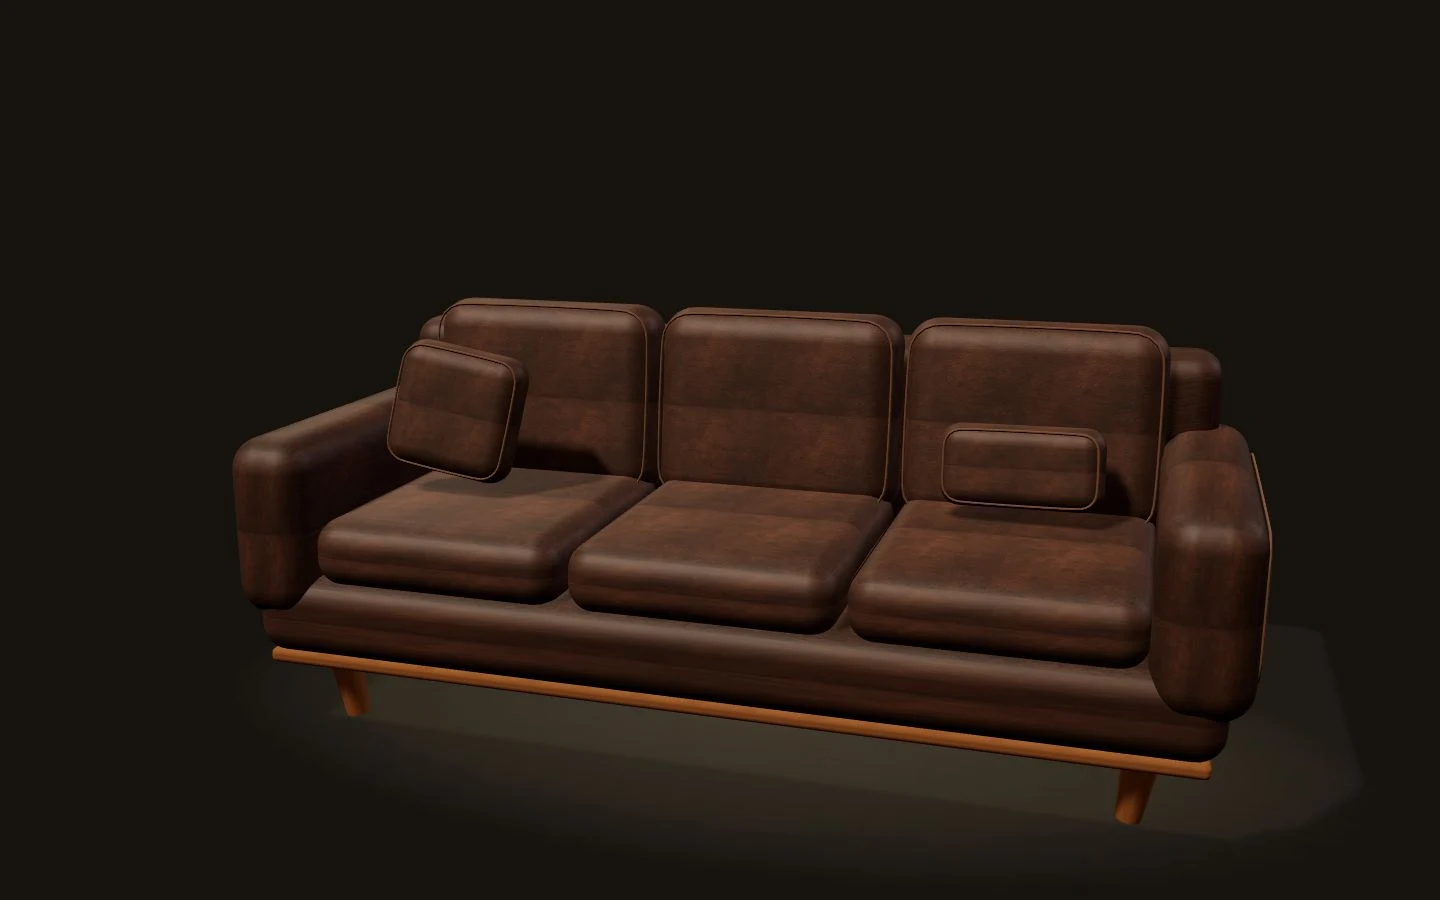
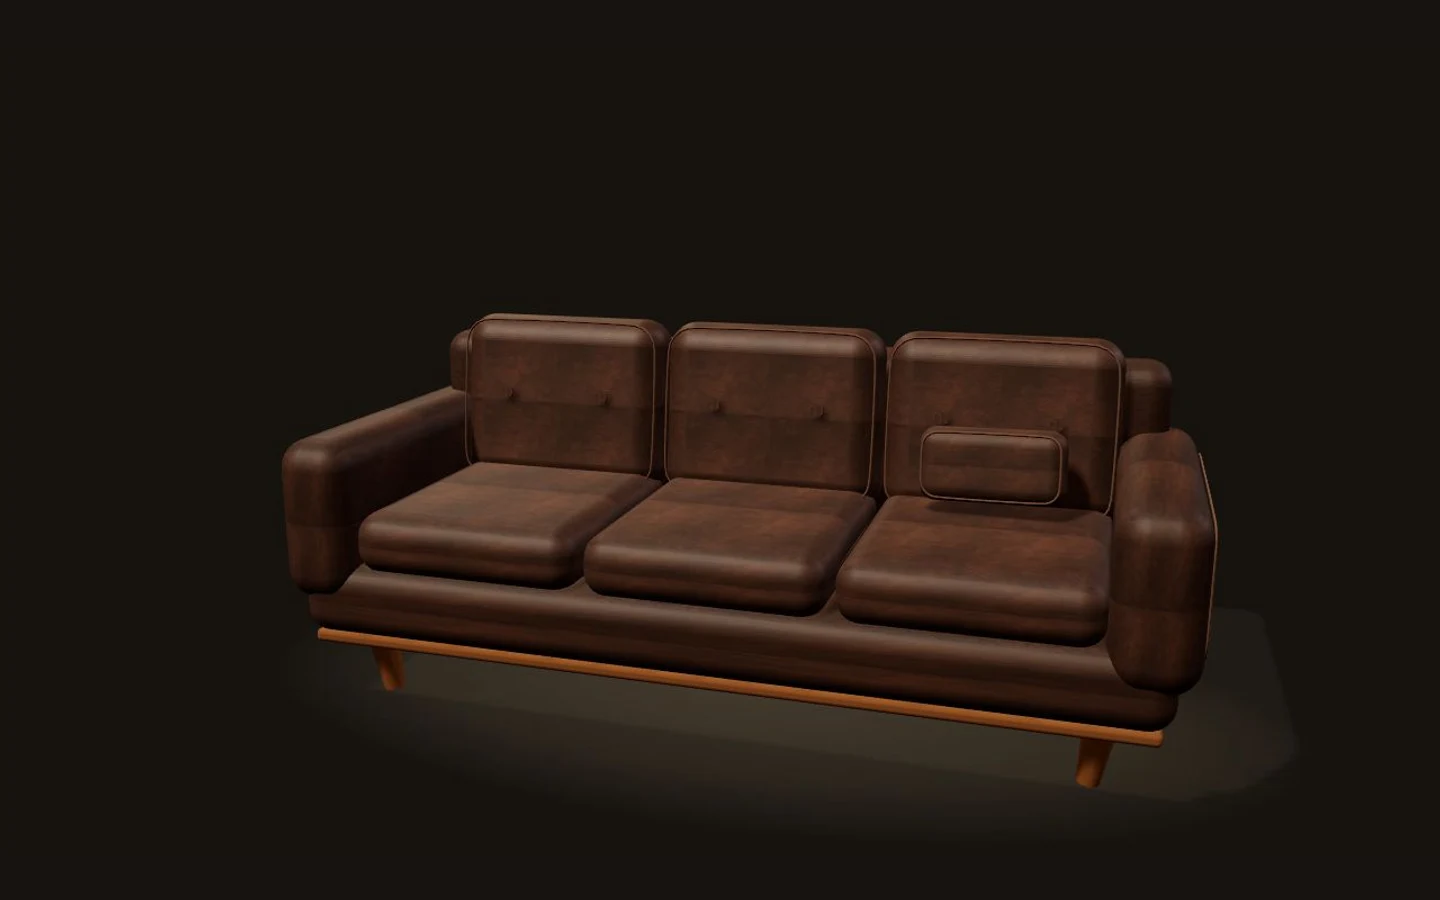
Remove floating cushion and add upholstered backrest buttons

Changed region(s): [[0.1562, 0.3111, 0.9062, 0.9333], [0.2188, 0.7778, 0.25, 0.8089]]

diff --git a/furniture3d.js b/furniture3d.js
@@ -75,7 +75,7 @@ function woodTexture() {
 }
 
 function roundedMesh(width, height, depth, radius, material, pillowAxis) {
-    const geometry = new RoundedBoxGeometry(width, height, depth, 4, radius);
+    const geometry = new RoundedBoxGeometry(width, height, depth, pillowAxis === 'z' && width > .8 ? 12 : 4, radius);
     if (pillowAxis) {
         const position = geometry.attributes.position;
         const point = new Vector3();
@@ -86,9 +86,15 @@ function roundedMesh(width, height, depth, radius, material, pillowAxis) {
                 ? 1 - Math.pow(point.z / (depth / 2), 2)
                 : 1 - Math.pow(point.y / (height / 2), 2);
             point[pillowAxis] += Math.sign(point[pillowAxis]) * 0.038 * Math.max(0, u * v);
+            if (pillowAxis === 'z' && width > .8 && point.z > 0) {
+                for (const bx of [-.23, .23]) {
+                    const distance = (point.x - bx) ** 2 + (point.y - .04) ** 2;
+                    point.z -= .026 * Math.exp(-distance / .009);
+                }
+            }
             position.setXYZ(i, point.x, point.y, point.z);
         }
-        // Conserva las normales suaves del canto redondeado. La deformación es mínima.
+        if (pillowAxis === 'z' && width > .8) geometry.computeVertexNormals();
     }
     const mesh = new Mesh(geometry, material);
     mesh.castShadow = mesh.receiveShadow = true;
@@ -158,18 +164,16 @@ function addSofa(scene, materials) {
         const backSeam = seam(0.92, 0.73, 0.11, materials.seam);
         backSeam.position.z = 0.133;
         back.add(backSeam);
+        for (const bx of [-.23, .23]) {
+            const button = new Mesh(new CylinderGeometry(.028, .028, .014, 20), materials.cushion);
+            button.rotation.x = Math.PI / 2;
+            button.position.set(bx, .04, .178);
+            button.castShadow = button.receiveShadow = true;
+            back.add(button);
+        }
         sofa.add(back);
     }
-    // Cojines laterales con vivo perimetral que equilibran ambos extremos del sofá.
-    const leftPillowGroup = new Group();
-    leftPillowGroup.position.set(-1.12, 1.145, 0.15);
-    leftPillowGroup.rotation.set(-0.16, 0.12, -0.17);
-    leftPillowGroup.add(roundedMesh(0.49, 0.49, 0.18, 0.085, materials.cushion, 'z'));
-    const leftPillowSeam = seam(0.45, 0.45, 0.075, materials.seam);
-    leftPillowSeam.position.z = 0.086;
-    leftPillowGroup.add(leftPillowSeam);
-    sofa.add(leftPillowGroup);
-
+    // Cojín lumbar apoyado sobre el asiento derecho.
     const rightLumbarGroup = new Group();
     rightLumbarGroup.position.set(0.987, 1.025, -0.08);
     rightLumbarGroup.rotation.set(-0.14, -0.06, 0.02);

diff --git a/index.html b/index.html
@@ -8,10 +8,10 @@
     <meta name="description" content="Restauración y tapizado de muebles en Lima. 29 años de oficio, atención directa y trabajo a medida. Consulte por WhatsApp al 997 317 630.">
     <link rel="icon" href="assets/brand/favicon.png" type="image/png">
     <link rel="preload" href="assets/fonts/jost-latin.woff2" as="font" type="font/woff2" crossorigin>
-    <link rel="stylesheet" href="styles.css?v=20261111b">
-    <script src="app.js?v=20261111b" defer></script>
-    <script src="hero-collage.js?v=20261111b" defer></script>
-    <script src="atmosphere.js?v=20261111b" defer></script>
+    <link rel="stylesheet" href="styles.css?v=20261111c">
+    <script src="app.js?v=20261111c" defer></script>
+    <script src="hero-collage.js?v=20261111c" defer></script>
+    <script src="atmosphere.js?v=20261111c" defer></script>
 </head>
 <body class="perf-low" data-theme="dark">
     <div class="brand-intro" aria-hidden="true"><img src="assets/brand/rivera.webp" alt="" width="140" height="104"></div>
@@ -117,7 +117,7 @@
                     <a class="showroom-skip" href="trabajos.html">Ir a los trabajos <span aria-hidden="true">↘</span></a>
                 </div>
                 <div class="sofa-view" role="img" aria-label="Representación de un sofá de tres plazas, con cojines de tela y patas de madera. Puede explorar tres tonos de tapizado.">
-                    <img id="sofaPoster" class="sofa-poster" src="assets/sofa3d/sofa-lino.webp?v=20261111b" width="1440" height="900" alt="Modelo de un sofá de tres plazas en lino claro y patas de madera" loading="lazy" decoding="async">
+                    <img id="sofaPoster" class="sofa-poster" src="assets/sofa3d/sofa-lino.webp?v=20261111c" width="1440" height="900" alt="Modelo de un sofá de tres plazas en lino claro y patas de madera" loading="lazy" decoding="async">
                     <div id="sofaCanvas" class="sofa-canvas" aria-hidden="true"></div>
                 </div>
                 <div class="showroom-bottom">

diff --git a/app.js b/app.js
@@ -270,7 +270,7 @@
         async function activate() {
             if (active || loading || !requested || !visible || document.hidden) return;
             setState('loading');
-            loading = import('./furniture3d.js?v=20261111b').then(async function (module) {
+            loading = import('./furniture3d.js?v=20261111c').then(async function (module) {
                 if (!requested || !visible || document.hidden) return null;
                 return module.createFurnitureScene(host, { onFailure: fail });
             });
@@ -327,7 +327,7 @@
                 if (!fabrics[selected]) return;
                 material = selected;
                 // Matching pre-rendered posters keep material selection available without WebGL.
-                poster.src = 'assets/sofa3d/sofa-' + selected + '.webp?v=20261111b';
+                poster.src = 'assets/sofa3d/sofa-' + selected + '.webp?v=20261111c';
                 poster.alt = 'Modelo de un sofá de tres plazas en ' + fabrics[selected].description + ' y patas de madera';
                 materialButtons.forEach(function (item) { item.setAttribute('aria-pressed', String(item === button)); });
                 const label = document.getElementById('materialStatus');

diff --git a/trabajos.html b/trabajos.html
@@ -8,8 +8,8 @@
     <meta name="description" content="Explore los trabajos de Rivera Concierge: sofás, sillas, butacas y terrazas tapizados a medida en Lima.">
     <link rel="icon" href="assets/brand/favicon.png" type="image/png">
     <link rel="preload" href="assets/fonts/jost-latin.woff2" as="font" type="font/woff2" crossorigin>
-    <link rel="stylesheet" href="styles.css?v=20261111b">
-    <script src="app.js?v=20261111b" defer></script>
+    <link rel="stylesheet" href="styles.css?v=20261111c">
+    <script src="app.js?v=20261111c" defer></script>
 </head>
 <body class="perf-low gallery-page" data-theme="dark">
     <a class="skip-link" href="#contenido">Saltar al contenido</a>

diff --git a/README.md b/README.md
@@ -92,3 +92,5 @@ Se comprobaron el botón, un enlace de foto, la apertura y cierre de la experien
 Logo y favicon derivados de la imagen entregada por el propietario. Navegación con Inicio, sin el botón El taller; la sección permanece. Se retiraron el pie de foto y el enlace secundario solicitados. Entrada breve de marca y fotografías inspirada en el video local de Vyashin, omitida con movimiento reducido.
 
 Los cojines auxiliares se elevaron sobre los asientos. El selector distingue lino, cuero chocolate (imagen de grano aportada por el usuario) y tejido oliva mediante mapas, relieve y rugosidad. Se actualizaron los tres posters desde el modelo. Sigue siendo una representación 3D, no una fotografía del taller. Se conservan los límites de GPU y el render bajo demanda. Pruebas de lógica de collage y atmósfera aprobadas; revisión visual del modelo y navegación. No se ejecutó la suite WebGL histórica completa ni se midió rendimiento en teléfonos físicos.
+
+Se retiró el cojín auxiliar izquierdo y se añadieron dos botones tapizados por respaldo. Posters renovados para los tres materiales; revisión visual de los tres acabados y comprobación de sintaxis.
